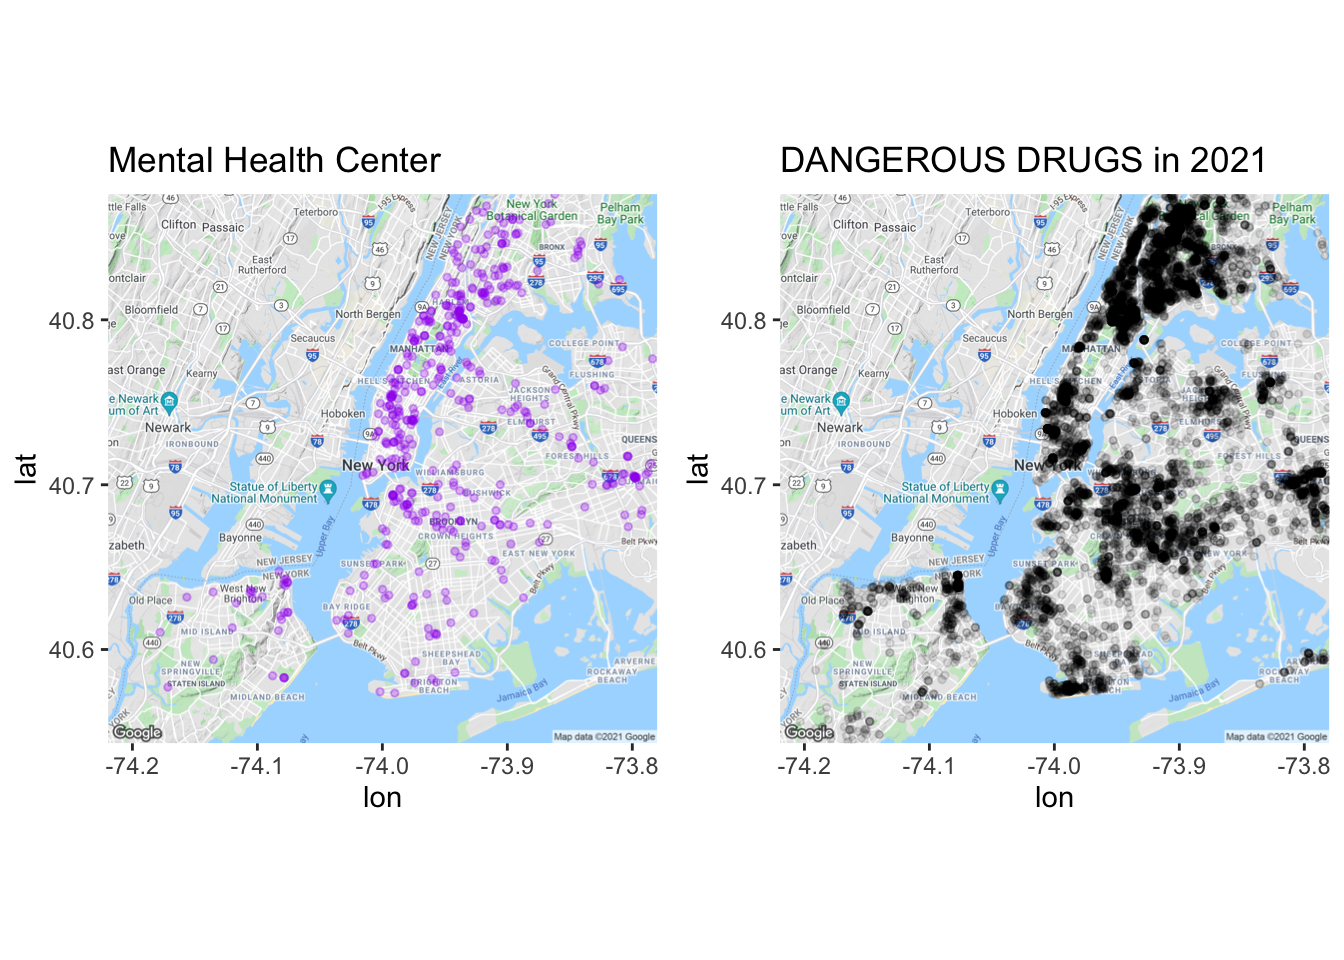
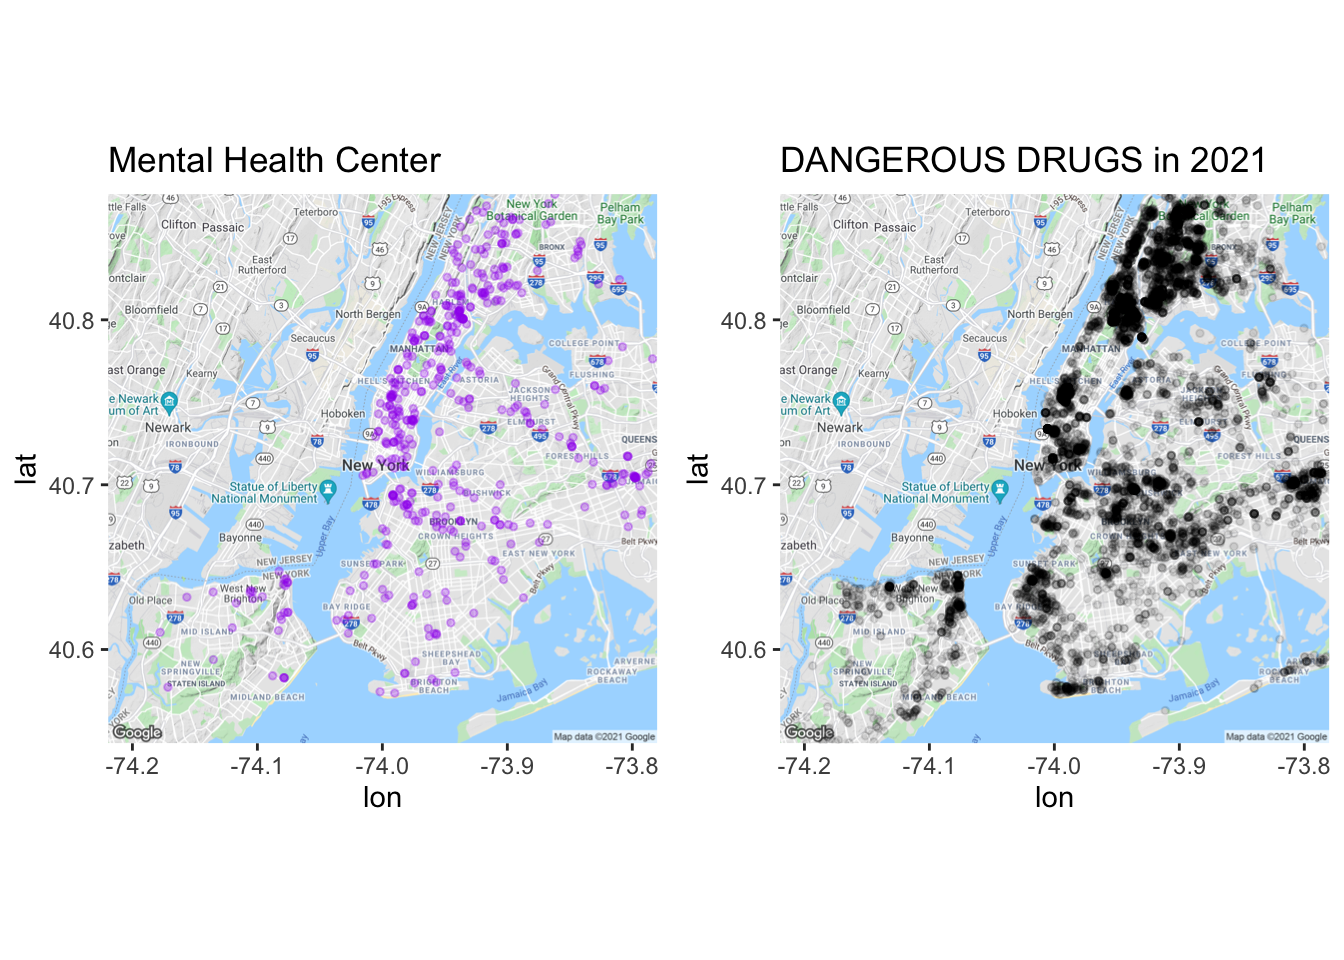
sny

Changed region(s): [[0.5938, 0.1875, 1.0, 0.7812], [0.9375, 0.6562, 1.0, 0.7188]]

diff --git a/docs/results.html b/docs/results.html
@@ -331,8 +331,8 @@ From the histogram, we can see majority of the criminals were arrested by <stron
 <p><img src="finalproj_files/figure-html/unnamed-chunk-54-1.png" width="768" /></p>
 <p>As the classfication of <strong>OFNS_DESC</strong> is a bit trivial, We combine some categories of <strong>OFNS_DESC</strong>, such as combine different kinds of assualt into new type <strong>ASSAULT</strong>, different kinds of larceny into <strong>Larceny</strong>. We select several popular types that we have shown in 5.1.3 to make mosaic plot.</p>
 <p>From the mosaic, it seems that in general the differences of proportion of different types(except <strong>BURGLARY</strong>) between each <strong>PREP_SEX</strong> decrease as <strong>AGE_GROUP</strong> increase. The proportion of <strong>ASSAULT</strong> as well as <strong>LARCENY</strong> is bigger in female compared to male obviously, while proportion of <strong>Drug</strong> as well as <strong>Weapon</strong> is bigger in male.</p>
-<div class="parcoords html-widget" height="480" id="htmlwidget-ecd6114bcde292b63a30" style="width:1152px;height:480px; position:relative; overflow-x:auto; overflow-y:hidden; max-width:100%;" width="1152"></div>
-<script type="application/json" data-for="htmlwidget-ecd6114bcde292b63a30">{"x":{"data":{"names":["1","2","3","4","5","6","7","8","9","10","11","12","13","14","15","16","17","18","19","20","21","22","23","24","25","26","27","28","29","30","31","32","33","34","35","36","37","38","39","40","41","42","43","44","45","46","47","48","49","50"],"ARREST_BORO":["B","B","K","K","K","K","M","M","K","B","Q","Q","Q","M","B","M","M","M","S","B","M","B","S","K","S","Q","K","Q","S","B","Q","M","M","B","K","M","Q","S","Q","Q","S","B","K","S","Q","B","K","S","S","S"],"PERP_SEX":["M","M","M","F","M","M","M","M","M","F","M","M","M","M","M","M","F","F","M","M","F","F","M","F","F","M","F","F","F","F","F","M","F","F","F","F","M","F","F","F","M","M","M","M","F","F","F","F","M","F"],"AGE_GROUP":["25-44","45-64","18-24","25-44","25-44","45-64","25-44","45-64","<18","18-24","25-44","18-24","45-64","65+","18-24","18-24","25-44","18-24","25-44","<18","45-64","25-44","18-24","18-24","18-24","<18","45-64","45-64","45-64","45-64","18-24","<18","65+","<18","<18","<18","65+","25-44","25-44","<18","45-64","65+","65+","<18","65+","65+","65+","<18","65+","65+"],"SEX_CRIME":[513,189,135,164,660,233,525,177,70,34,811,151,295,29,110,127,109,20,72,65,21,151,20,33,2,32,29,41,3,23,36,26,1,5,7,5,43,22,218,3,35,23,42,6,3,1,4,null,8,null],"RAPE":[158,61,70,2,145,52,102,26,10,1,145,44,43,1,58,26,null,1,27,16,null,3,7,1,null,7,null,null,null,null,null,2,null,null,null,null,3,1,1,null,4,5,1,4,null,null,null,null,null,null],"LARCENY":[2308,915,1124,862,3338,1706,5537,3065,364,180,2548,1009,1359,110,764,1241,1439,395,457,264,479,586,205,247,76,307,349,314,63,235,219,229,27,30,62,54,58,202,624,33,281,31,77,52,25,12,24,10,5,6],"ROBBERY":[1395,294,926,204,1534,368,1379,437,566,107,1063,663,210,25,876,678,216,105,126,534,56,212,69,125,11,310,45,22,5,38,84,427,1,83,68,94,6,24,110,32,32,6,6,69,null,null,1,10,2,null],"ASSAULT":[8166,2711,2259,2488,7989,2689,5818,2040,442,1131,7049,1945,2575,247,2433,1555,1946,712,1076,422,522,2812,364,978,123,279,789,596,110,763,767,244,59,193,185,117,267,355,2073,128,395,259,273,55,56,51,50,20,36,3],"DRUG":[2609,1256,590,317,2318,1057,2649,1648,34,67,1477,469,519,95,755,572,346,50,500,49,170,273,96,81,19,36,165,78,50,183,93,44,4,4,2,6,28,113,249,3,223,69,52,4,1,2,9,null,16,2],"BURGLARY":[651,258,259,146,1236,724,1668,1175,77,27,638,198,407,22,207,497,271,69,84,78,41,59,27,47,6,64,46,20,4,19,21,244,null,9,11,14,8,18,72,6,68,11,30,14,3,2,2,2,3,null],"WEAPON":[1147,188,1551,206,1969,328,865,236,309,95,898,670,264,23,1043,541,116,60,192,225,24,132,106,149,11,102,32,43,8,33,98,110,3,19,31,11,27,20,135,13,54,15,24,29,2,3,4,1,4,1],"MURDER":[330,64,206,15,265,40,239,42,41,17,184,142,29,2,259,140,16,8,35,71,4,18,27,8,null,34,3,2,null,1,9,57,null,1,2,1,1,2,7,null,5,4,7,6,2,null,null,null,1,null]},"options":{"rownames":false,"color":{"colorBy":"PERP_SEX","colorScale":"scaleOrdinal","colorScheme":"schemeCategory10"},"brushMode":"1D-axes","brushPredicate":"AND","reorderable":true,"margin":{"top":50,"bottom":50,"left":100,"right":50},"mode":"queue","bundlingStrength":0.5,"smoothness":0},"autoresize":false,"tasks":null},"evals":[],"jsHooks":[]}</script>
+<div class="parcoords html-widget" height="480" id="htmlwidget-3ee349f5a96c8d457b5b" style="width:1152px;height:480px; position:relative; overflow-x:auto; overflow-y:hidden; max-width:100%;" width="1152"></div>
+<script type="application/json" data-for="htmlwidget-3ee349f5a96c8d457b5b">{"x":{"data":{"names":["1","2","3","4","5","6","7","8","9","10","11","12","13","14","15","16","17","18","19","20","21","22","23","24","25","26","27","28","29","30","31","32","33","34","35","36","37","38","39","40","41","42","43","44","45","46","47","48","49","50"],"ARREST_BORO":["B","B","K","K","K","K","M","M","K","B","Q","Q","Q","M","B","M","M","M","S","B","M","B","S","K","S","Q","K","Q","S","B","Q","M","M","B","K","M","Q","S","Q","Q","S","B","K","S","Q","B","K","S","S","S"],"PERP_SEX":["M","M","M","F","M","M","M","M","M","F","M","M","M","M","M","M","F","F","M","M","F","F","M","F","F","M","F","F","F","F","F","M","F","F","F","F","M","F","F","F","M","M","M","M","F","F","F","F","M","F"],"AGE_GROUP":["25-44","45-64","18-24","25-44","25-44","45-64","25-44","45-64","<18","18-24","25-44","18-24","45-64","65+","18-24","18-24","25-44","18-24","25-44","<18","45-64","25-44","18-24","18-24","18-24","<18","45-64","45-64","45-64","45-64","18-24","<18","65+","<18","<18","<18","65+","25-44","25-44","<18","45-64","65+","65+","<18","65+","65+","65+","<18","65+","65+"],"SEX_CRIME":[513,189,135,164,660,233,525,177,70,34,811,151,295,29,110,127,109,20,72,65,21,151,20,33,2,32,29,41,3,23,36,26,1,5,7,5,43,22,218,3,35,23,42,6,3,1,4,null,8,null],"RAPE":[158,61,70,2,145,52,102,26,10,1,145,44,43,1,58,26,null,1,27,16,null,3,7,1,null,7,null,null,null,null,null,2,null,null,null,null,3,1,1,null,4,5,1,4,null,null,null,null,null,null],"LARCENY":[2308,915,1124,862,3338,1706,5537,3065,364,180,2548,1009,1359,110,764,1241,1439,395,457,264,479,586,205,247,76,307,349,314,63,235,219,229,27,30,62,54,58,202,624,33,281,31,77,52,25,12,24,10,5,6],"ROBBERY":[1395,294,926,204,1534,368,1379,437,566,107,1063,663,210,25,876,678,216,105,126,534,56,212,69,125,11,310,45,22,5,38,84,427,1,83,68,94,6,24,110,32,32,6,6,69,null,null,1,10,2,null],"ASSAULT":[8166,2711,2259,2488,7989,2689,5818,2040,442,1131,7049,1945,2575,247,2433,1555,1946,712,1076,422,522,2812,364,978,123,279,789,596,110,763,767,244,59,193,185,117,267,355,2073,128,395,259,273,55,56,51,50,20,36,3],"DRUG":[2609,1256,590,317,2318,1057,2649,1648,34,67,1477,469,519,95,755,572,346,50,500,49,170,273,96,81,19,36,165,78,50,183,93,44,4,4,2,6,28,113,249,3,223,69,52,4,1,2,9,null,16,2],"BURGLARY":[651,258,259,146,1236,724,1668,1175,77,27,638,198,407,22,207,497,271,69,84,78,41,59,27,47,6,64,46,20,4,19,21,244,null,9,11,14,8,18,72,6,68,11,30,14,3,2,2,2,3,null],"WEAPON":[1147,188,1551,206,1969,328,865,236,309,95,898,670,264,23,1043,541,116,60,192,225,24,132,106,149,11,102,32,43,8,33,98,110,3,19,31,11,27,20,135,13,54,15,24,29,2,3,4,1,4,1],"MURDER":[330,64,206,15,265,40,239,42,41,17,184,142,29,2,259,140,16,8,35,71,4,18,27,8,null,34,3,2,null,1,9,57,null,1,2,1,1,2,7,null,5,4,7,6,2,null,null,null,1,null]},"options":{"rownames":false,"color":{"colorBy":"PERP_SEX","colorScale":"scaleOrdinal","colorScheme":"schemeCategory10"},"brushMode":"1D-axes","brushPredicate":"AND","reorderable":true,"margin":{"top":50,"bottom":50,"left":100,"right":50},"mode":"queue","bundlingStrength":0.5,"smoothness":0},"autoresize":false,"tasks":null},"evals":[],"jsHooks":[]}</script>
 <p>We make an interactive graph including <strong>ARREST_BORO</strong>，<strong>AGE_GROUP</strong>, <strong>PREP_SEX</strong>, <strong>type</strong> to gain more information about crimes in NYC after 2020. The color identify different sex.</p>
 <p>1.Outliers: Considering <strong>AGE_GROUP</strong>, <strong>25-44</strong> is higher than other ages consistent to the results in 5.1.6. Considering <strong>ARREST_BORO</strong>, the numbers of crimes of each category in Staten Island is less than other boroughs obviously. Queens has highest number in <em>Sex Crime</em>, followed by Kings, Brooklyn; Brooklyn has highest number in <strong>Rape</strong>, followed by Kings and Queens; Kings has highest number in <strong>Weapon</strong>; Manhattan has large number in <strong>Larceny</strong>, <strong>Robbery</strong>, <strong>Burglary</strong> and <strong>Drug</strong>; Both Kings and Brooklyn has large number in <strong>Drug</strong>, <strong>Assault</strong>, <strong>Robbery</strong> and <strong>Murder</strong>.</p>
 <p>2.Clusters: In general, the number of criminals in male is bigger than female, consistent to the result in 5.1.7.</p>
@@ -359,20 +359,20 @@ From the pie chart, we can know that the area with the most crime is Brooklyn, a
 <img src="NYC-Precint.png" alt="" />
 <p class="caption">alt text here</p>
 </div>
-<p>From the histograms of boroughs and the precinct map in NYC, we can see the different pattern of crimes on different police precincts. In Manhattan, crime number of each precincts are relatively even (except for precinct 14), howeverr, Bronx has a distrubition with higher variance. Also, we can</p>
+<p>From the histograms of boroughs and the precinct map in NYC, we can see the different pattern of crimes on different police precincts. In Manhattan, crime number of each precincts are relatively even (except for precinct 14), however, Bronx has a distribution with higher variance. We can use this chart to judge which district is suitable for more police force.</p>
 <p><img src="finalproj_files/figure-html/unnamed-chunk-62-1.png" width="672" /></p>
 <p>We pick out the top 20 precincts with the most criminal records and found that 9 of them (almost 50%) are in Bronx, which is the most among 5 boroughs.</p>
 </div>
 <div id="nyc-crime-maps" class="section level4" number="5.1.9.3">
 <h4><span class="header-section-number">5.1.9.3</span> NYC crime maps</h4>
-<p><img src="finalproj_files/figure-html/unnamed-chunk-66-1.png" width="1728" /></p>
-<p>Comparing the drug crime situation in 2018 and 2020, we can find the following two points:</p>
+<p><img src="finalproj_files/figure-html/unnamed-chunk-66-1.png" width="672" /></p>
+<p>Comparing the drug crime situation in 2018 and 2021, we can find the following two points:</p>
 <ol style="list-style-type: lower-alpha">
 <li><p>From 2018 to 2021, dangerous drug crimes have decreased a lot.</p></li>
 <li><p>Drug crimes are clustered on the map, we can find that the southern part of Bronx is an area with more serious drug crimes.</p></li>
 </ol>
-<p><img src="finalproj_files/figure-html/unnamed-chunk-69-1.png" width="1728" /></p>
-<p>From this two plot, we can find that larceny crimes are concentrated on the midtown and downtown, which around the central park. From 2018 to 2020, the larceny crimes on Manhattan decrease a lot however the number of PETIT LARCENY in other areas has no big difference.</p>
+<p><img src="finalproj_files/figure-html/unnamed-chunk-69-1.png" width="672" /></p>
+<p>From this two plot, we can find that larceny crimes are concentrated on the midtown and downtown, which around the central park. From 2018 to 2020, the larceny crimes on Manhattan downtown decrease a lot however the number of PETIT LARCENY in other areas has no big difference.</p>
 </div>
 </div>
 </div>
@@ -415,8 +415,8 @@ From the pie chart, we can know that the area with the most crime is Brooklyn, a
 <p>In total, numbers of hate crimes in <strong>New York</strong> county ranks first, followed by <strong>Kings</strong>, while <strong>Richmond</strong> has the least number of hate crime, followed by <strong>BRONX</strong>.</p>
 <p><img src="finalproj_files/figure-html/unnamed-chunk-83-1.png" width="960" /></p>
 <p>In generally, number of hate crimes in each county increases since Feb 2021, then decreases after May 2021. And <strong>New York</strong> increases the most and reaches the highest number on May 2021.</p>
-<div class="parcoords html-widget" height="480" id="htmlwidget-b9b9ef3b77ca10545bbc" style="width:1152px;height:480px; position:relative; overflow-x:auto; overflow-y:hidden; max-width:100%;" width="1152"></div>
-<script type="application/json" data-for="htmlwidget-b9b9ef3b77ca10545bbc">{"x":{"data":{"names":["1","2","3","4","5","6","7","8","9","10","11","12","13","14","15"],"County":["BRONX","KINGS","BRONX","BRONX","KINGS","KINGS","NEW YORK","NEW YORK","NEW YORK","QUEENS","QUEENS","QUEENS","RICHMOND","RICHMOND","RICHMOND"],"year":[2019,2019,2020,2021,2020,2021,2019,2020,2021,2019,2020,2021,2020,2021,2019],"ANTI_GAY":[2,19,5,4,4,18,19,11,30,11,7,9,2,0,1],"ANTI-WHITE":[5,4,0,1,4,2,18,3,5,1,0,3,3,0,0],"ANTI-MUSLIM":[5,5,1,0,1,2,2,0,0,3,3,6,0,1,0],"ANTI-JEWISH":[13,128,8,24,66,40,65,28,63,42,18,26,6,5,4],"ANTI-ASIAN":[0,1,5,2,7,26,0,17,74,0,3,26,1,2,0],"ANTI-BLACK":[3,12,3,2,6,9,13,10,9,6,11,6,6,9,3],"ANTI_LES":[0,1,3,0,0,0,5,2,3,0,0,0,0,0,0],"ANTI_LGBT":[0,2,1,0,0,0,4,2,1,1,0,0,0,0,0]},"options":{"rownames":false,"color":{"colorBy":"year","colorScale":"scaleOrdinal","colorScheme":"schemeCategory10"},"brushMode":"1D-axes","brushPredicate":"AND","reorderable":true,"margin":{"top":50,"bottom":50,"left":100,"right":50},"mode":"queue","bundlingStrength":0.5,"smoothness":0},"autoresize":false,"tasks":null},"evals":[],"jsHooks":[]}</script>
+<div class="parcoords html-widget" height="480" id="htmlwidget-d0bd3eae0569ee0dae4b" style="width:1152px;height:480px; position:relative; overflow-x:auto; overflow-y:hidden; max-width:100%;" width="1152"></div>
+<script type="application/json" data-for="htmlwidget-d0bd3eae0569ee0dae4b">{"x":{"data":{"names":["1","2","3","4","5","6","7","8","9","10","11","12","13","14","15"],"County":["BRONX","KINGS","BRONX","BRONX","KINGS","KINGS","NEW YORK","NEW YORK","NEW YORK","QUEENS","QUEENS","QUEENS","RICHMOND","RICHMOND","RICHMOND"],"year":[2019,2019,2020,2021,2020,2021,2019,2020,2021,2019,2020,2021,2020,2021,2019],"ANTI_GAY":[2,19,5,4,4,18,19,11,30,11,7,9,2,0,1],"ANTI-WHITE":[5,4,0,1,4,2,18,3,5,1,0,3,3,0,0],"ANTI-MUSLIM":[5,5,1,0,1,2,2,0,0,3,3,6,0,1,0],"ANTI-JEWISH":[13,128,8,24,66,40,65,28,63,42,18,26,6,5,4],"ANTI-ASIAN":[0,1,5,2,7,26,0,17,74,0,3,26,1,2,0],"ANTI-BLACK":[3,12,3,2,6,9,13,10,9,6,11,6,6,9,3],"ANTI_LES":[0,1,3,0,0,0,5,2,3,0,0,0,0,0,0],"ANTI_LGBT":[0,2,1,0,0,0,4,2,1,1,0,0,0,0,0]},"options":{"rownames":false,"color":{"colorBy":"year","colorScale":"scaleOrdinal","colorScheme":"schemeCategory10"},"brushMode":"1D-axes","brushPredicate":"AND","reorderable":true,"margin":{"top":50,"bottom":50,"left":100,"right":50},"mode":"queue","bundlingStrength":0.5,"smoothness":0},"autoresize":false,"tasks":null},"evals":[],"jsHooks":[]}</script>
 <p>We make an interactive graph including <strong>County</strong>，<strong>Year</strong>, <strong>Bias type</strong> to gain more information about hate crimes in NYC in recent 3 years. The color identify different year.</p>
 <p>In 2021, <strong>New York</strong> county has the largest number of hate crimes in both ANTI-GAY and ANTI-ASIAN obviously, <strong>Queens</strong> has the largest number in ANTI-MUSLIM. You can find more interested information by yourself.</p>
 </div>
@@ -470,7 +470,7 @@ From the pie chart, we can know that the area with the most crime is Brooklyn, a
 <p>According to some scientific researches, drug use and gun crime are related to mental health to a certain extent. So we explore the geographic distribution of these two crimes and compared them with the distribution of mental health centers.</p>
 <p><img src="finalproj_files/figure-html/unnamed-chunk-88-1.png" width="672" /></p>
 <p><img src="finalproj_files/figure-html/unnamed-chunk-89-1.png" width="672" /></p>
-<p>From these for maps, we can find that the location of the mental health center is very consistent with the distribution of drug crime and weapon crime’s sites, which reflects that New York’s mental health construction is very complete and supportive. Besides, there is still room for improvement such as adding mental health service center in Rockway Beach and the area around EAST NEW YORK in Brooklyn.</p>
+<p>From these for maps, we can find that the location of the mental health center is very consistent with the distribution of drug crime and weapon crime’s sites, which reflects that New York’s mental health construction is very complete and supportive. Besides, there is still room for improvement such as adding mental health service center in Rockway Beach and the area in the eastern part of Brooklyn.</p>
 
 </div>
 </div>

diff --git a/docs/conclusion.html b/docs/conclusion.html
@@ -144,7 +144,12 @@
 <div id="conclusion" class="section level1" number="7">
 <h1><span class="header-section-number">Chapter 7</span> Conclusion</h1>
 <p>In our project, we comprehensively analyze and visualize crime incidents in New York City from 2013 to 2021 from multiple perspectives such as magnitude, time, type, age, sex, position and so on. Besides, we also try to explore the connection between crime and other social factors such as COVID-19 VS hate crimes and Mental Health Service VS Drugs&amp;Gun Crimes. Here are some conclusions and further suggestions:</p>
-<p>In terms of the overall crime situation in New York, the total number of crimes in New York City has been declining sharply every year from 2011-2021. Among all types, the proportion of DANGEROUS DRUGS is constantly decreasing, the proportion of ASSAULT 3 is constantly increasing. Among 5 boroughs, proportion of crime in Queens and Staten Island is increasing especially after 2015 so we should pay more attention on it.</p>
+<p>In terms of the overall crime situation in New York, the total number of crimes in New York City has been declining sharply every year from 2011-2021.</p>
+<ol style="list-style-type: lower-alpha">
+<li>Among all types, the proportion of DANGEROUS DRUGS is constantly decreasing, the proportion of ASSAULT 3 is constantly increasing.</li>
+<li></li>
+<li>Among 5 boroughs, proportion of crime in Queens and Staten Island is increasing especially after 2015 so we should pay more attention on it.</li>
+</ol>
 <p>Besides, as for covid-19,</p>
 <p>What’s more, as for mental health services, health centers are positively correlated with the number of crimes in borough level and the location of the mental health center is very consistent with the distribution of drug crime and weapon crime’s sites on map views. We can conclude NYC’s mental health construction is now quite complete and supportive but we can add some mental health service centers in Rockaway Beach and the area around EAST NEW YORK in Brooklyn according to the crime situation.</p>
 
